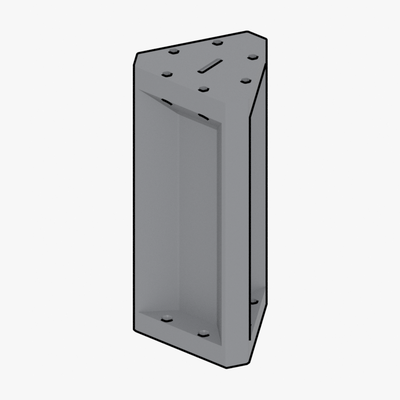
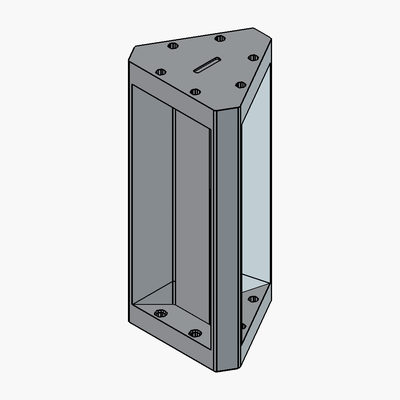
BOM: FreeCAD edge renders, product photos, brass rod, larger images
- Re-render the tool part previews from the FreeCAD models with black
  B-rep edges.
- Add product photos for steel balls, magnets, M2 dowel pins, brass rod
  and NEMA 17 motors.
- Brass pipe becomes brass rod (solid, OD 2 mm); drop the old Amazon link.
- Display BOM images at 180 px.

Changed region(s): [[0.3, 0.06, 0.69, 0.93]]

diff --git a/documentation/bom/bom.md b/documentation/bom/bom.md
@@ -6,11 +6,11 @@ Printable parts link directly to their `.stl` file and PCBs to their production 
 
 | Name | Qty | Description | Comments | Suggested link | Image |
 |------|-----|-------------|----------|----------------|-------|
-| Steel ball | 12 | Ø1 mm (0.04") | Precision G10 or better. Can be sourced from small ball bearings | [Aliexpress](https://www.aliexpress.com/item/1005008399505167.html) | |
-| PU stretch cord | 1 m | Ø1mm | e.g. "Stretch Magic" or "Magic String" | [Aliexpress](https://www.aliexpress.com/item/1005006140225266.html) | <img src="images/PU_StretchCord.png" alt="Pu strech cord" width="120"> |
-| Neodym Cylinder Magnet | 70 | Ø3mm h=5 mm | N52 Grade | [NeoMagnets](https://www.buyneomagnets.com/p/3mm-dia-x-5mm-thick-n52-neodymium-rare-earth-disc-magnets-100-pack/) | |
-| Brass Pipe | 1 m | OD=Ø2mm ID=Ø1 mm | | [Amazon](https://a.co/d/1pRFmtf), [Aliexpress](https://www.aliexpress.com/item/1005006371614363.html) | <img src="images/BrassPipe.png" alt="Brass Pipe" width="120"> |
-| M2-8 dowel | 9 | | | [Aliexpress](https://www.aliexpress.com/item/1005009401701158.html) | |
+| Steel ball | 12 | Ø1 mm (0.04") | Precision G10 or better. Can be sourced from small ball bearings | [Aliexpress](https://www.aliexpress.com/item/1005008399505167.html) | <img src="images/SteelBall.jpg" alt="Steel ball" width="180"> |
+| PU stretch cord | 1 m | Ø1mm | e.g. "Stretch Magic" or "Magic String" | [Aliexpress](https://www.aliexpress.com/item/1005006140225266.html) | <img src="images/PU_StretchCord.png" alt="Pu strech cord" width="180"> |
+| Neodym Cylinder Magnet | 70 | Ø3mm h=5 mm | N52 Grade | [NeoMagnets](https://www.buyneomagnets.com/p/3mm-dia-x-5mm-thick-n52-neodymium-rare-earth-disc-magnets-100-pack/) | <img src="images/NeodymMagnet.jpg" alt="Neodym Cylinder Magnet" width="180"> |
+| Brass Rod | 1 m | OD=Ø2mm | | [Aliexpress](https://www.aliexpress.com/item/1005006371614363.html) | <img src="images/BrassRod.jpg" alt="Brass Rod" width="180"> |
+| M2-8 dowel | 9 | | | [Aliexpress](https://www.aliexpress.com/item/1005009401701158.html) | <img src="images/M2x8_DowelPin.jpg" alt="M2-8 dowel" width="180"> |
 | SHCS M2-8 | 9 | | | | |
 | Set Screw M3-6 | 3 | | | | |
 | FHCS M3-6 | 3 | | | | |
@@ -22,37 +22,37 @@ Printable parts link directly to their `.stl` file and PCBs to their production 
 
 | Name | Qty | Description | Comments | Suggested link | Image |
 |------|-----|-------------|----------|----------------|-------|
-| DC-DC Step Down Module | 1 | 5V Fixed Output Step-Down Buck Converter | | [Aliexpress](https://www.aliexpress.com/item/1005008257960729.html) | <img src="images/Fixed_DC_DC-StepDown.png" alt="DC-DC Step Down" width="120"> |
+| DC-DC Step Down Module | 1 | 5V Fixed Output Step-Down Buck Converter | | [Aliexpress](https://www.aliexpress.com/item/1005008257960729.html) | <img src="images/Fixed_DC_DC-StepDown.png" alt="DC-DC Step Down" width="180"> |
 | (1N5819) OR (PMEG4010) | 1 | Diode (through-hole or SMD) | | | |
-| Raspberry Pi Pico 2 | 1 | Microcontroller board | | [Aliexpress](https://www.aliexpress.com/item/1005007660023339.html) | <img src="images/RaspberryPiPico2.png" alt="Raspberry Pi Pico 2" width="120"> |
-| MT6835 Magnetic Encoder Module | 3 | Magnetic encoder | | [Aliexpress](https://www.aliexpress.com/item/1005012795954973.html) | <img src="images/MT6835.png" alt="MT6835 Magnetic Encoder Module" width="120"> |
-| TB6612FNG Driver | 3 | | | [Aliexpress](https://www.aliexpress.com/item/1005006246388728.html) | <img src="images/TB6612FNG.png" alt="TB6612FNG Driver" width="120"> |
+| Raspberry Pi Pico 2 | 1 | Microcontroller board | | [Aliexpress](https://www.aliexpress.com/item/1005007660023339.html) | <img src="images/RaspberryPiPico2.png" alt="Raspberry Pi Pico 2" width="180"> |
+| MT6835 Magnetic Encoder Module | 3 | Magnetic encoder | | [Aliexpress](https://www.aliexpress.com/item/1005012795954973.html) | <img src="images/MT6835.png" alt="MT6835 Magnetic Encoder Module" width="180"> |
+| TB6612FNG Driver | 3 | | | [Aliexpress](https://www.aliexpress.com/item/1005006246388728.html) | <img src="images/TB6612FNG.png" alt="TB6612FNG Driver" width="180"> |
 | 470 µF Electrolytic Capacitor | 3 | > 100 µF | anything > 100µF will work well | | |
 | 10 µF Ceramic Capacitor 0603 | 3 | Optional | | | |
 | 4.7 k Resistor 0603 | 2 | Optional | | | |
-| NEMA 17 Stepper Motor | 3 | Body ≤ 38 mm | Body length <= 38mm | [Aliexpress](https://www.aliexpress.com/item/4001359634598.html) | |
-| JST XH2.54 4P connector | 3 | 4P Housing & Header 2.54mm pitch | J1, J2, J3 (motors) | [Aliexpress](https://www.aliexpress.com/item/1005007080333485.html) | <img src="images/JST_XH2.54_Connector.png" alt="JST XH2.54 Connector" width="120"> |
-| XT60H Connector | 1 | 2P Male & Female pair 7.5mm pitch | Power connector | [Aliexpress](https://www.aliexpress.com/item/1005007605928815.html) | <img src="images/XT60H_Pairs.png" alt="XT60H Connector" width="120"> |
-| PH2.0 4P Housing <br> PH2.0 8P Housing | 1 <br> 1 | 4P 2mm pitch Housing <br> 8P 2mm pitch Housing | J5 (tool/I2C)<br> J4 (encoders) | [Aliexpress](https://www.aliexpress.com/item/1005010491403413.html) | <img src="images/PH2_Housings.png" alt="PH2.0 Housings" width="120"> |
-| PH2.0 4P Header <br> PH2.0 8P Header | 1 <br> 1 | 4P 2mm pitch Header <br> 8P 2mm pitch Header | J5 (tool/I2C) <br> J4 (encoders) | [Aliexpress](https://www.aliexpress.com/item/1005010491403413.html) | <img src="images/PH2_Headers.png" alt="PH2.0 Headers" width="120"> |
+| NEMA 17 Stepper Motor | 3 | Body ≤ 38 mm | Body length <= 38mm | [Aliexpress](https://www.aliexpress.com/item/4001359634598.html) | <img src="images/NEMA17_Stepper.jpg" alt="NEMA 17 Stepper Motor" width="180"> |
+| JST XH2.54 4P connector | 3 | 4P Housing & Header 2.54mm pitch | J1, J2, J3 (motors) | [Aliexpress](https://www.aliexpress.com/item/1005007080333485.html) | <img src="images/JST_XH2.54_Connector.png" alt="JST XH2.54 Connector" width="180"> |
+| XT60H Connector | 1 | 2P Male & Female pair 7.5mm pitch | Power connector | [Aliexpress](https://www.aliexpress.com/item/1005007605928815.html) | <img src="images/XT60H_Pairs.png" alt="XT60H Connector" width="180"> |
+| PH2.0 4P Housing <br> PH2.0 8P Housing | 1 <br> 1 | 4P 2mm pitch Housing <br> 8P 2mm pitch Housing | J5 (tool/I2C)<br> J4 (encoders) | [Aliexpress](https://www.aliexpress.com/item/1005010491403413.html) | <img src="images/PH2_Housings.png" alt="PH2.0 Housings" width="180"> |
+| PH2.0 4P Header <br> PH2.0 8P Header | 1 <br> 1 | 4P 2mm pitch Header <br> 8P 2mm pitch Header | J5 (tool/I2C) <br> J4 (encoders) | [Aliexpress](https://www.aliexpress.com/item/1005010491403413.html) | <img src="images/PH2_Headers.png" alt="PH2.0 Headers" width="180"> |
 
 ## PCBs
 
 | Name | Qty | Description | Comments | File | Image |
 | ---- | --- | ----------- | -------- | ---- | ----- |
-| Control Board | 1 | | | [.zip](../../construction/v4_PCB_zip/PrecisionStepperController3X_v1.3.zip) | <img src="images/PCB_ControlBoard.png" alt="Control Board" width="120"> |
-| Ball Joint Plate (balljoint_plate_pcb) | 6 | | | [.zip](../../construction/v4_PCB_zip/balljoint_plate_pcb_jlcpcb.zip) | <img src="images/PCB_BallJointPlate.png" alt="Ball Joint Plate" width="120"> |
-| Encoder Board | 1 | | | [.zip](../../construction/v4_PCB_zip/EncoderBoard.zip) | <img src="images/PCB_EncoderBoard.png" alt="Encoder Board" width="120"> |
+| Control Board | 1 | | | [.zip](../../construction/v4_PCB_zip/PrecisionStepperController3X_v1.3.zip) | <img src="images/PCB_ControlBoard.png" alt="Control Board" width="180"> |
+| Ball Joint Plate (balljoint_plate_pcb) | 6 | | | [.zip](../../construction/v4_PCB_zip/balljoint_plate_pcb_jlcpcb.zip) | <img src="images/PCB_BallJointPlate.png" alt="Ball Joint Plate" width="180"> |
+| Encoder Board | 1 | | | [.zip](../../construction/v4_PCB_zip/EncoderBoard.zip) | <img src="images/PCB_EncoderBoard.png" alt="Encoder Board" width="180"> |
 
 ## 3D Printing
 
 | Name | Qty | Description | Comments | File | Image |
 | ---- | --- | ----------- | -------- | ---- | ----- |
-| Motor Horn | 3 | | 0.4 mm+ nozzle may require post-processing | [.stl](../../construction/v4_3dprinting_stl/machine/MotorHorn.stl) | <img src="images/MotorHorn.png" alt="Motor Horn" width="120"> |
-| RubberBandCollet | 12 | | 0.4 mm nozzle, 0.1mm Layer height + may require post-processing | [.stl](../../construction/v4_3dprinting_stl/machine/RubberBandCollet.stl) | <img src="images/RubberBandCollet.png" alt="Rubber Band Collet" width="120"> |
-| Motor Mount | 3 | | | [.stl](../../construction/v4_3dprinting_stl/machine/MotorMount.stl) | <img src="images/MotorMount.png" alt="Motor Mount" width="120"> |
-| End Effector | 1 | | | [.stl](../../construction/v4_3dprinting_stl/machine/EndEffector.stl) | <img src="images/EndEffector.png" alt="End Effector" width="120"> |
-| Base Block | 1 | | | [.stl](../../construction/v4_3dprinting_stl/machine/BaseBlock.stl) | <img src="images/BaseBlock.png" alt="Base Block" width="120"> |
+| Motor Horn | 3 | | 0.4 mm+ nozzle may require post-processing | [.stl](../../construction/v4_3dprinting_stl/machine/MotorHorn.stl) | <img src="images/MotorHorn.png" alt="Motor Horn" width="180"> |
+| RubberBandCollet | 12 | | 0.4 mm nozzle, 0.1mm Layer height + may require post-processing | [.stl](../../construction/v4_3dprinting_stl/machine/RubberBandCollet.stl) | <img src="images/RubberBandCollet.png" alt="Rubber Band Collet" width="180"> |
+| Motor Mount | 3 | | | [.stl](../../construction/v4_3dprinting_stl/machine/MotorMount.stl) | <img src="images/MotorMount.png" alt="Motor Mount" width="180"> |
+| End Effector | 1 | | | [.stl](../../construction/v4_3dprinting_stl/machine/EndEffector.stl) | <img src="images/EndEffector.png" alt="End Effector" width="180"> |
+| Base Block | 1 | | | [.stl](../../construction/v4_3dprinting_stl/machine/BaseBlock.stl) | <img src="images/BaseBlock.png" alt="Base Block" width="180"> |
 
 # Tool - Rod Sharpener
 
@@ -60,8 +60,8 @@ Printable parts link directly to their `.stl` file and PCBs to their production 
 
 | Name | Qty | Description | Comments | File | Image |
 | ---- | --- | ----------- | -------- | ---- | ----- |
-| Rod Guide | 1 | | | [.stl](../../construction/v4_3dprinting_stl/tools/rod_sharpener/RodGuide.stl) | <img src="images/Sharpener_RodGuide.png" alt="Rod Guide (Sharpener)" width="120"> |
-| Blade Carrier | 1 | | | [.stl](../../construction/v4_3dprinting_stl/tools/rod_sharpener/BladeCarrier.stl) | <img src="images/Sharpener_BladeCarrier.png" alt="Blade Carrier" width="120"> |
+| Rod Guide | 1 | | | [.stl](../../construction/v4_3dprinting_stl/tools/rod_sharpener/RodGuide.stl) | <img src="images/Sharpener_RodGuide.png" alt="Rod Guide (Sharpener)" width="180"> |
+| Blade Carrier | 1 | | | [.stl](../../construction/v4_3dprinting_stl/tools/rod_sharpener/BladeCarrier.stl) | <img src="images/Sharpener_BladeCarrier.png" alt="Blade Carrier" width="180"> |
 
 # Tool - Rod Length Setting Press
 
@@ -69,14 +69,14 @@ Printable parts link directly to their `.stl` file and PCBs to their production 
 
 | Name | Qty | Description | Comments | File | Image |
 | ---- | --- | ----------- | -------- | ---- | ----- |
-| ball_alignment_disc_pcb | 1 | | | [.zip](../../construction/v4_PCB_zip/ball_alignment_disc_pcb.zip) | <img src="images/PCB_BallAlignmentDisc.png" alt="Ball Alignment Disc" width="120"> |
+| ball_alignment_disc_pcb | 1 | | | [.zip](../../construction/v4_PCB_zip/ball_alignment_disc_pcb.zip) | <img src="images/PCB_BallAlignmentDisc.png" alt="Ball Alignment Disc" width="180"> |
 
 ## 3D Printing
 
 | Name | Qty | Description | Comments | File | Image |
 | ---- | --- | ----------- | -------- | ---- | ----- |
-| RodGrindingJigA | 1 | | | [.stl](../../construction/v4_3dprinting_stl/tools/rod_length_setting_press/RodGrindingJigA.stl) | <img src="images/Press_RodGrindingJigA.png" alt="Rod Grinding Jig A" width="120"> |
-| RodGrindingJigB | 1 | | | [.stl](../../construction/v4_3dprinting_stl/tools/rod_length_setting_press/RodGrindingJigB.stl) | <img src="images/Press_RodGrindingJigB.png" alt="Rod Grinding Jig B" width="120"> |
-| RodGuide | 1 | | | [.stl](../../construction/v4_3dprinting_stl/tools/rod_length_setting_press/RodGuide.stl) | <img src="images/Press_RodGuide.png" alt="Rod Guide (Length Press)" width="120"> |
-| RodCollet | 2 | | | [.stl](../../construction/v4_3dprinting_stl/tools/rod_length_setting_press/RodCollet.stl) | <img src="images/Press_RodCollet.png" alt="Rod Collet" width="120"> |
-| CaliperClamp | 2 | | | [.stl](../../construction/v4_3dprinting_stl/tools/rod_length_setting_press/CaliperClamp.stl) | <img src="images/Press_CaliperClamp.png" alt="Caliper Clamp" width="120"> |
+| RodGrindingJigA | 1 | | | [.stl](../../construction/v4_3dprinting_stl/tools/rod_length_setting_press/RodGrindingJigA.stl) | <img src="images/Press_RodGrindingJigA.png" alt="Rod Grinding Jig A" width="180"> |
+| RodGrindingJigB | 1 | | | [.stl](../../construction/v4_3dprinting_stl/tools/rod_length_setting_press/RodGrindingJigB.stl) | <img src="images/Press_RodGrindingJigB.png" alt="Rod Grinding Jig B" width="180"> |
+| RodGuide | 1 | | | [.stl](../../construction/v4_3dprinting_stl/tools/rod_length_setting_press/RodGuide.stl) | <img src="images/Press_RodGuide.png" alt="Rod Guide (Length Press)" width="180"> |
+| RodCollet | 2 | | | [.stl](../../construction/v4_3dprinting_stl/tools/rod_length_setting_press/RodCollet.stl) | <img src="images/Press_RodCollet.png" alt="Rod Collet" width="180"> |
+| CaliperClamp | 2 | | | [.stl](../../construction/v4_3dprinting_stl/tools/rod_length_setting_press/CaliperClamp.stl) | <img src="images/Press_CaliperClamp.png" alt="Caliper Clamp" width="180"> |
